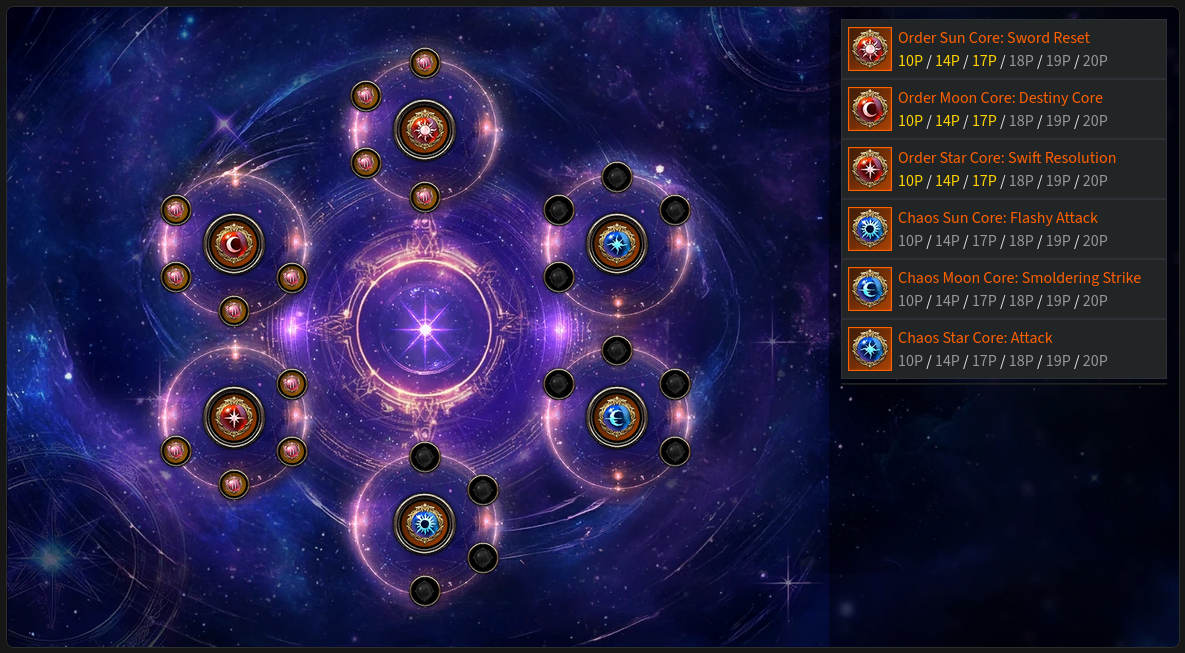
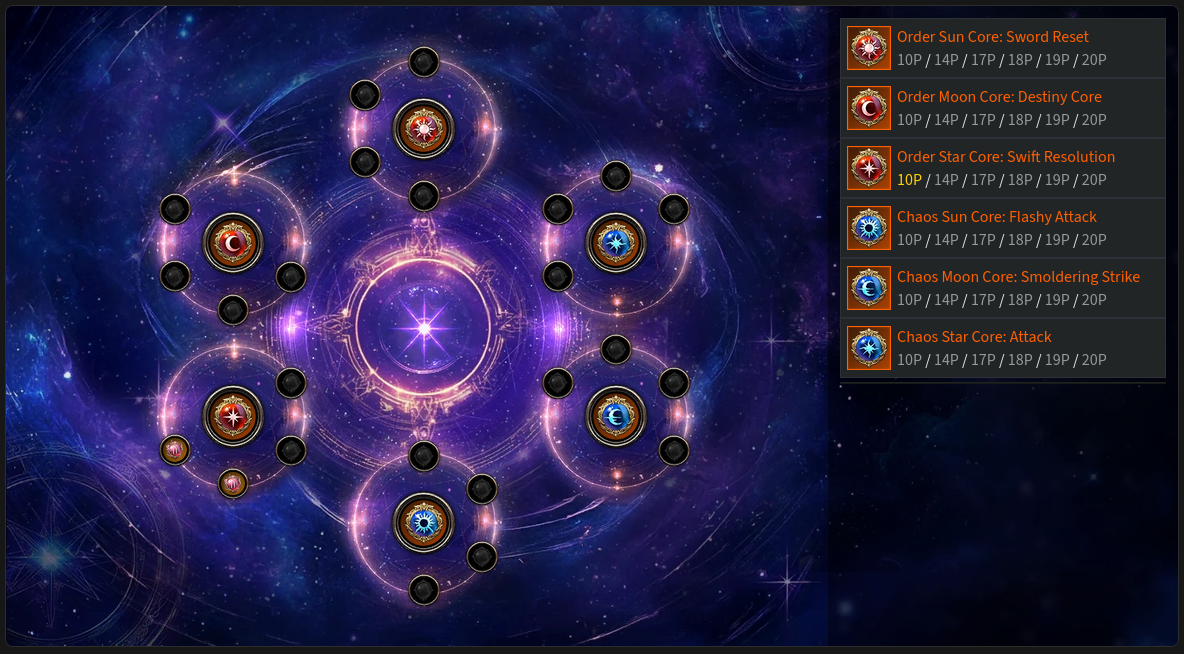
surge fixes

diff --git a/docs/surge/222-speedy.md b/docs/surge/222-speedy.md
@@ -46,8 +46,8 @@
 ![222 Ark Passive/Grid tree](../assets/surge/argrid-tree-222.png)
 ![222 Order cores](../assets/surge/ordercores-222.png)
 
-!!! danger ""
-    Deadly Feast and Dual Blade Dance cores don't exist in NA yet, so Sword Reset and Destiny core are used as placeholders. Playable with fewer chaos points, but it would be better to play [111 (Classic)](111-classic.md) instead.
+!!! tip ""
+    The only strict Ark Grid requirement for this build is a 10p Star core, but damage may be lacking.
 
 !!! note "Adjustments"
     - Use the [DPS Calculator](https://docs.google.com/spreadsheets/d/1_0J7liyM_yw16pyn6TKlF1YGaIt5n_A9hSoLnT3yTUc/copy) to optimize Keen Sense/Limit Break and Master/Critical.
@@ -60,8 +60,7 @@
 
 !!! tip "Rune Adjustments"
     - Use Legendary Purify on Spincutter if needed.
-    - Use Legendary Bleed on Surprise Attack if you don't need Rage.
-    - Use Epic Rage on Turning Slash if you prefer higher Rage uptime.
+    - Use Legendary Bleed on Surprise Attack if you prefer it.
 
 ??? note "Skill Adjustments"
     - Upper Slash (2-3-2 tripods) can be used instead of Spincutter or Dark Axel.
@@ -131,7 +130,8 @@ Use the Main cycle and repeat it relentlessly until the encounter ends.
     <span class="skill">![](../assets/surge/icon-windcut.png)Wind Cut</span><span class="arrow"> → </span><span class="skill">![](../assets/surge/icon-deathtrance.png)Death Trance</span><span class="arrow"> → </span><span class="skill">![](../assets/surge/icon-maelstrom.png)Maelstrom</span><span class="arrow"> → </span><span class="skill">![](../assets/surge/icon-surpriseattack.png)Surprise Attack</span><span class="arrow"> → </span><span class="skill">![](../assets/surge/icon-windcut.png)Wind Cut</span><span class="arrow"> → </span><span class="skill">![](../assets/surge/icon-turningslash.png)Turning Slash</span><span class="arrow"> → </span><span class="skill">![](../assets/surge/icon-earthcleaver.png)Earth Cleaver</span><span class="arrow"> → </span><span class="skill">![](../assets/surge/icon-bladedance.png)Blade Dance</span><span class="arrow"> → </span><span class="skill">![](../assets/surge/icon-deathlyslash.png)Deathly Slash</span><span class="arrow"> → </span><span class="skill">![](../assets/surge/icon-surpriseattack.png)Surprise Attack</span><span class="arrow"> → </span><span class="skill">![](../assets/surge/icon-surge.png)Surge</span>
     </div>
 
-    - If you have to hold Earth Cleaver for counter, cast <span class="gem-chip">![](../assets/surge/icon-spincutter.png)Spincutter</span> instead.
+    - Cast <span class="gem-chip">![](../assets/surge/icon-spincutter.png)Spincutter</span> instead of Earth Cleaver as needed.
+    - You don't necessarily have to cast Wind Cut before Death trance for this build.
 
 === "Opener/Awakening Cycle"
 
@@ -149,6 +149,7 @@ Use the Main cycle and repeat it relentlessly until the encounter ends.
     </div>
 
     - This is the Main cycle for the Upper Slash skill setup.
+    - You don't necessarily have to cast Wind Cut before Death trance for this build.
 
 *From zero orbs:*
 

diff --git a/docs/surge/111-classic.md b/docs/surge/111-classic.md
@@ -46,6 +46,9 @@
 ![111 Ark Passive/Grid tree](../assets/surge/argrid-tree-111.png)
 ![111 Order cores](../assets/surge/ordercores-111.png)
 
+!!! tip ""
+    You can level Ark Grid cores to your preference, but keep in mind that 17p Moon grants a second Earth Cleaver stack. This lets you slot a cooldown gem into Blade Dance and unlocks its Weak Point Detection tripod.
+
 !!! note "Adjustments"
     - Use the [DPS Calculator](https://docs.google.com/spreadsheets/d/1_0J7liyM_yw16pyn6TKlF1YGaIt5n_A9hSoLnT3yTUc/copy) to optimize Keen Sense/Limit Break and Master/Critical.
         - Keen Sense 2 + Master is usually best unless you have 2x crit rate synergy or 2x crit rate bracelet.

diff --git a/docs/surge/essentials.md b/docs/surge/essentials.md
@@ -8,6 +8,7 @@
     - Blitz Rush gains a 27% cast speed tripod and 20% more attack range.
     - Turning Slash and Surprise Attack's after-effects now also apply Synergy.
     - Overall damage increases, Surge is now competitive with RE.
+    - Post cast delay of Surge is removed, no longer need to animation cancel.
 
 !!! tip "Quick Tips"
     - Use the [DPS Calculator](https://docs.google.com/spreadsheets/d/1_0J7liyM_yw16pyn6TKlF1YGaIt5n_A9hSoLnT3yTUc/copy) to optimize Keen Sense/Limit Break and Master/Critical.
